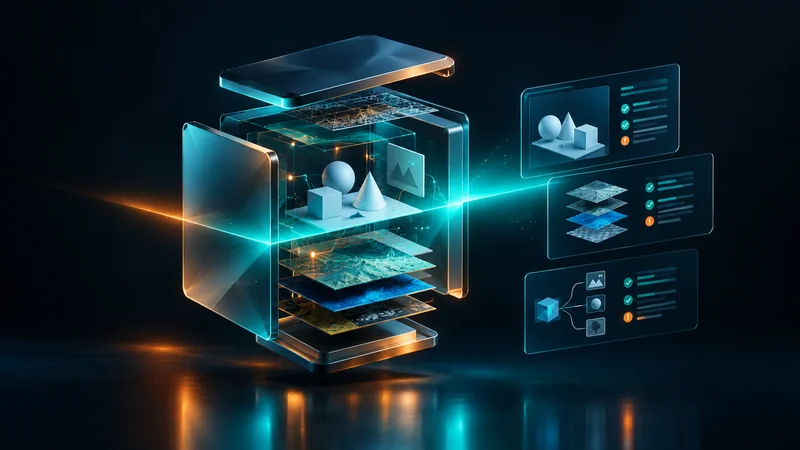
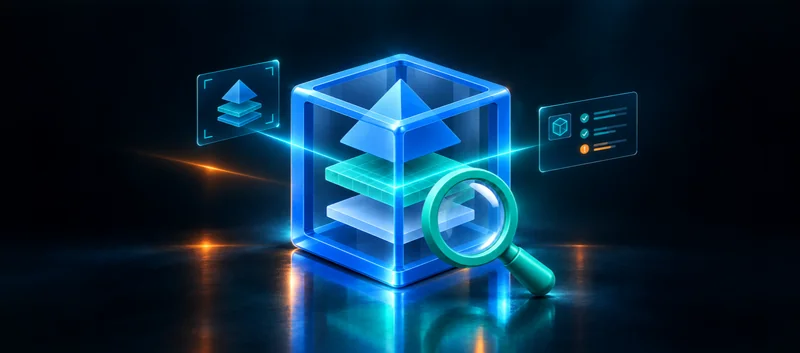
feat: replace USDZ Validator cover with supplied artwork

diff --git a/data/projects/usdzValidatorAssets.test.ts b/data/projects/usdzValidatorAssets.test.ts
@@ -1,0 +1,37 @@
+import { createHash } from 'node:crypto'
+import { readFileSync, readdirSync } from 'node:fs'
+import path from 'node:path'
+import sharp from 'sharp'
+import { describe, expect, it } from 'vitest'
+
+const images = path.join(process.cwd(), 'public/static/images')
+const widths = [144, 200, 640, 800, 1000]
+const sha256 = (file: string) => createHash('sha256').update(readFileSync(file)).digest('hex')
+
+describe('USDZ Validator cover assets', () => {
+  it('retains the supplied Firefly bytes as the cover source', () => {
+    expect(sha256(path.join(images, 'original-backups/projects/usdz-validator.png'))).toBe(
[1 lines of base64/hex data omitted]
+    )
+  })
+
+  it('provides the complete responsive family without obsolete variants', async () => {
+    const main = await sharp(path.join(images, 'projects/usdz-validator.png')).metadata()
+    expect(main.format).toBe('png')
+    expect(main.width).toBe(1000)
+    expect(main.height).toBe(441)
+    const expected = widths.flatMap((width) =>
+      ['png', 'webp'].map((ext) => `usdz-validator-${width}w.${ext}`)
+    )
+    const actual = readdirSync(path.join(images, 'projects/responsive')).filter((name) =>
+      /^usdz-validator-\d+w\./.test(name)
+    )
+    expect(actual.sort()).toEqual(expected.sort())
+    for (const name of expected) {
+      const image = sharp(path.join(images, 'projects/responsive', name))
+      const metadata = await image.metadata()
+      expect(metadata.width).toBe(Number(name.match(/-(\d+)w/)![1]))
+      await expect(image.raw().toBuffer()).resolves.toBeInstanceOf(Buffer)
+    }
+  })
+})
